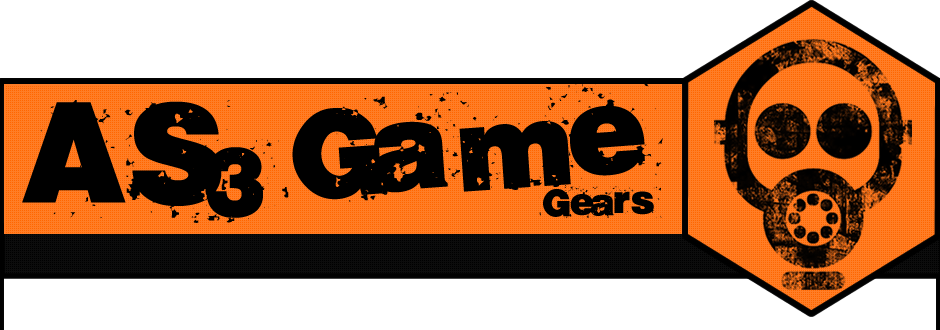
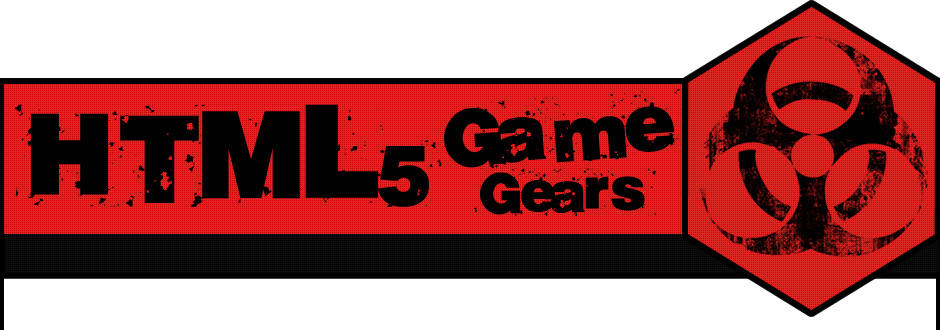
Adjusting the names.

diff --git a/themes/html5gamegears/style.css b/themes/html5gamegears/style.css
@@ -983,7 +983,7 @@ div.menu li {
 	width:70px;
 	height:24px;
 	padding-left:30px;
-	background:#FF822F url('images/icons/search_small.png') no-repeat center 0;
+	background:#DB2626 url('images/icons/search_small.png') no-repeat center 0;
 	border:none;
 	border-left:1px solid #999;
 	text-indent:-9999px;

diff --git a/themes/html5gamegears/header.php b/themes/html5gamegears/header.php
@@ -28,8 +28,8 @@
 <meta name="google-site-verification" content="O6lUCx7d2YEg3kHVlg-BCeWPQxLQa5k7VBJdWTMRU8E" />
 
 <!-- SEO stuff -->
-<meta property="og:image" content="<?php bloginfo('template_directory'); ?>/images/as3gamegears.png"/>
-<meta property="og:site_name" content="As3GameGears"/>
+<meta property="og:image" content="<?php bloginfo('template_directory'); ?>/images/html5gamegears.png"/>
+<meta property="og:site_name" content="Html5GameGears"/>
 <meta property="og:type" content="website"/>
 <?php if ( is_single()) {
 	$aText = @explode('.', strip_tags($post->post_content), 2);
@@ -40,12 +40,12 @@
 <meta property="og:description" content="<?php echo $aDesc; ?>"/>
 <meta name="description" content="<?php echo $aDesc; ?>" />
 <?php } else { ?>
-<meta property="og:title" content="As3GameGears"/>
+<meta property="og:title" content="Html5GameGears"/>
 <meta property="og:url" content="<?php echo home_url('/'); ?>"/>
-<meta property="og:description" content="AS3GameGears is the right place to find tools, libraries and engines to build your game. There is no need to reinvent the wheel for every new Flash game you create, all you need is a place to search for the tools that best fit your needs."/>
-<meta name="description" content="AS3GameGears is the right place to find tools, libraries and engines to build your game. There is no need to reinvent the wheel for every new Flash game you create, all you need is a place to search for the tools that best fit your needs." />
+<meta property="og:description" content="Html5GameGears is the right place to find tools, libraries and engines to build your HTML5 game. There is no need to reinvent the wheel for every new HTML5 game you create, all you need is a place to search for the tools that best fit your needs."/>
+<meta name="description" content="Html5GameGears is the right place to find tools, libraries and engines to build your HTML5 game. There is no need to reinvent the wheel for every new HTML5 game you create, all you need is a place to search for the tools that best fit your needs." />
 <?php } ?>
-<meta name="keywords" content="as3, engine, games, game, game engine, physica, graphics, tweening, isometric, 2D, 3D, engines, 2D games, 3D games, multiplayer, smartfox, particles, path-finding, path finding, profiling, adobe, flash, as3, actionscript, starling, stage3D, ane, native extension, air, ios, android" />
+<meta name="keywords" content="html5, html, css, javascript, js, engine, games, game, game engine, physics, graphics, tweening, isometric, 2D, 3D, engines, 2D games, 3D games, multiplayer, smartfox, particles, path-finding, path finding, profiling, canvas, webgl, ios, android" />
 <meta name="author" content="Fernando Bevilacqua" />
 <!-- /SEO stuff -->
 

diff --git a/themes/html5gamegears/sidebar.php b/themes/html5gamegears/sidebar.php
@@ -27,9 +27,9 @@
 						</div>
 					<?php } ?>
 					<div>
-						<a href="http://twitter.com/as3gamegears" target="_blank">
+						<a href="http://twitter.com/html5gamegears" target="_blank">
 							<img src="<?php bloginfo('template_directory'); ?>/images/icons/twitter.png" border="0" width="50" height="50" title="Follow us on Twitter!" />
-							<p><strong>@As3GameGears</strong><br />Follow us on Twitter!</p>
+							<p><strong>@Html5GameGears</strong><br />Follow us on Twitter!</p>
 						</a>
 					</div>
 					<div>
